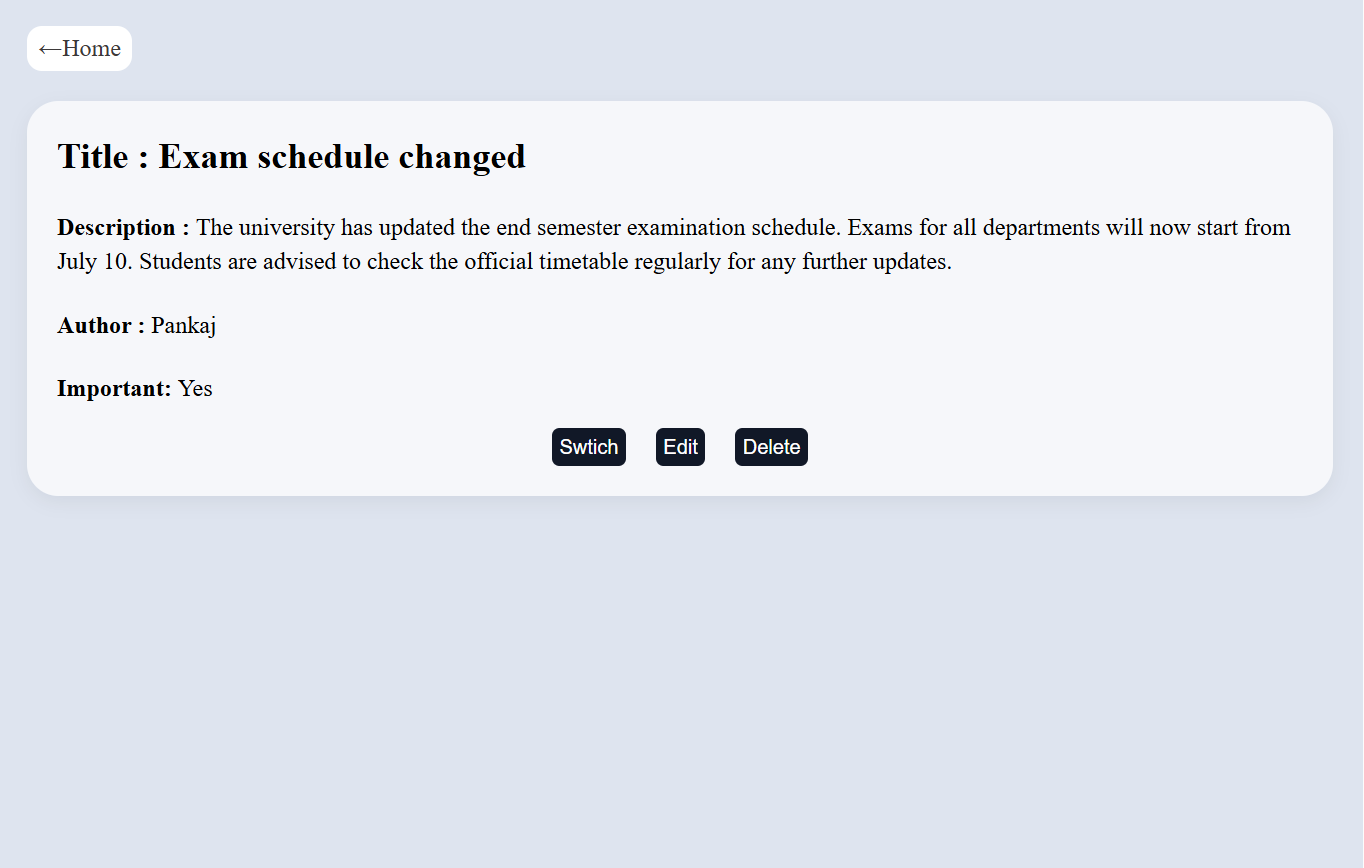
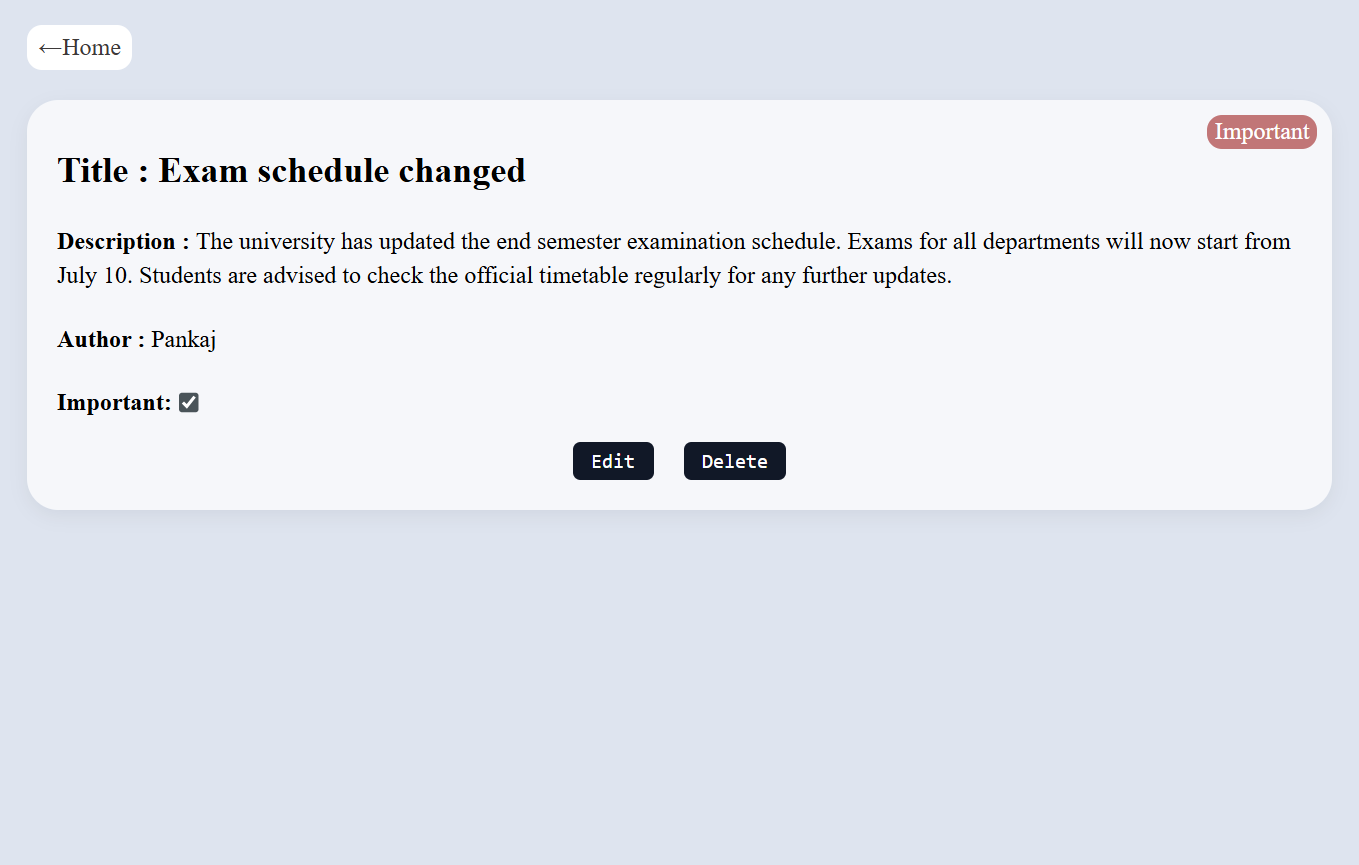
fix UI

diff --git a/public/style.css b/public/style.css
@@ -24,6 +24,7 @@ h1{
     padding: 20px;
     gap: 15px;
     line-height: 1.4;
+    position: relative;
     form{
         button{
             border: none;
@@ -35,6 +36,16 @@ h1{
             color: white;
             border-radius: 5px;
         }
+    }
+    .imp{
+        background-color: rgba(173, 67, 67, 0.719);
+        color: white;
+        padding: 0 5px;
+        border-radius: 10px;
+        position:absolute;
+        top: 10px;
+        right: 10px;
+
     }
 }
 
@@ -76,6 +87,12 @@ h1{
     display: flex;
     flex-direction: column;
     gap: 20px;
+    padding-top: 10px;
+    .check{
+        display: flex;
+        justify-content: start;
+        gap: 5px;
+    }
 }
 
 .btns{

diff --git a/index.js b/index.js
@@ -4,6 +4,7 @@ const app = express();
 const path = require("path");
 
 app.set("view engine","ejs");
+app.set("views",path.join(__dirname,"views"));
 app.use(express.urlencoded({extended:true}));
 app.use(express.json());
 app.use(methodOverride('_method'));

diff --git a/README.md b/README.md
@@ -53,5 +53,5 @@ MongoDB integration planned as next step.
 ## Screenshots
 ![Notices](images/notices.png)
 ![View](images/view.png)
-![New](images/new.png)
 ![Edit](images/edit.png)
+![New](images/new.png)